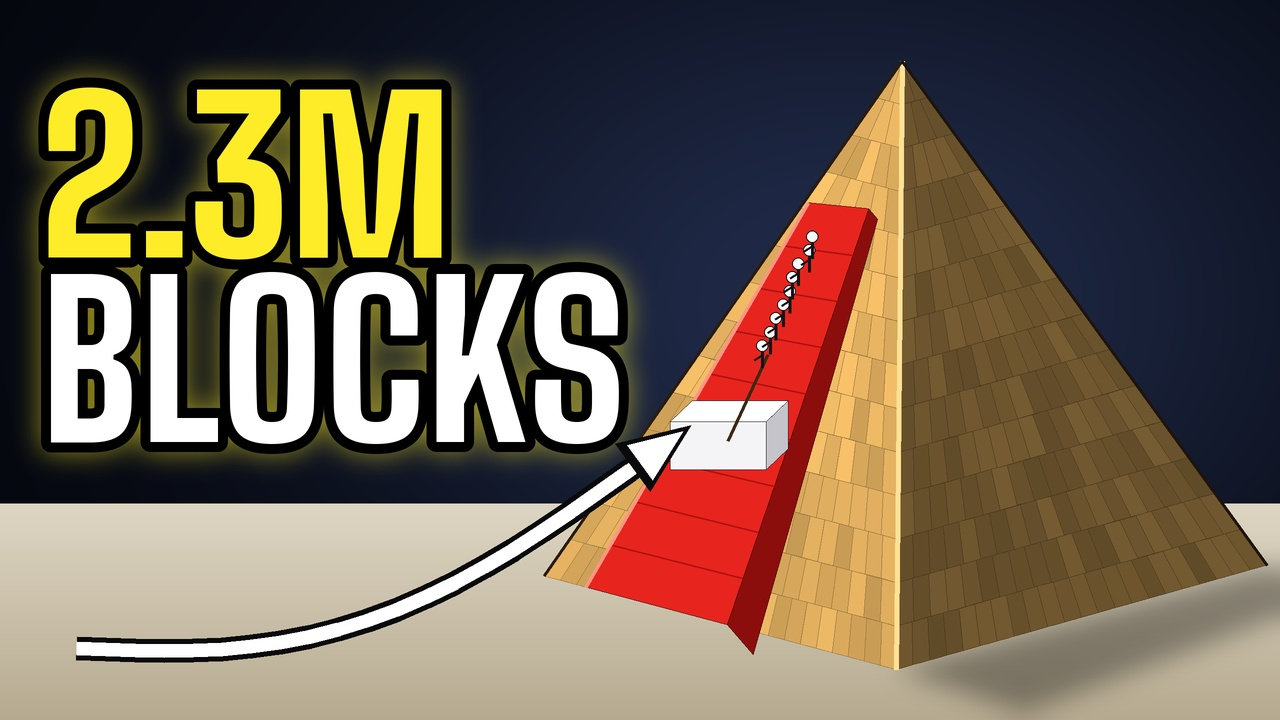
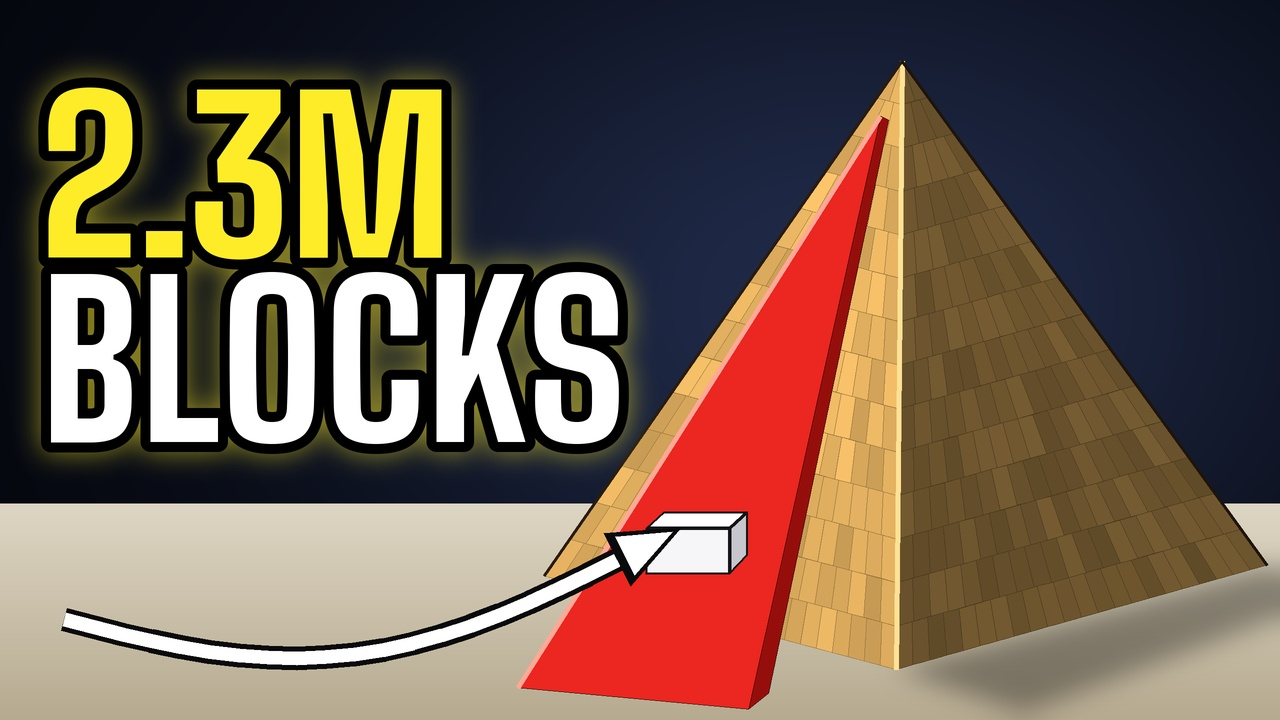
Thumbnail: one long straight red ramp from ground to top, block on it, no tiny people

Changed region(s): [[0.0312, 0.1528, 0.7188, 1.0]]

diff --git a/studio/hero_thumb.py b/studio/hero_thumb.py
@@ -76,45 +76,27 @@ def pyramid_thumbnail(lines, out_path, accent=(255, 236, 40), seed=3, ramp=True,
     d.line([apex, bf], fill=(255, 226, 150, 255), width=5 * S)         # bright edge
     d.line([apex, bl], fill=(40, 28, 16, 255), width=3 * S)
     d.line([apex, br], fill=(30, 20, 12, 255), width=3 * S)
-    # red ramp: a solid sloped embankment built against the lit face. Wide on the ground, narrowing as it climbs, with a darker side wall so it reads as a thick structure
+    # one long straight red ramp from the ground in front all the way up to near the top, like a slide leaning on the pyramid
+    bx = by = bw = 0
     if ramp:
-        g0 = _lerp(bl, bf, 0.12); g1 = _lerp(bl, bf, 0.52)                  # ramp foot on the ground along the base edge
-        top_c = _lerp(_lerp(g0, g1, 0.5), apex, 0.74)
-        t0 = (top_c[0] - 30 * S, top_c[1]); t1 = (top_c[0] + 30 * S, top_c[1] + 6 * S)
+        top = _lerp(apex, _lerp(bl, bf, 0.40), 0.10)                         # the ramp ends just under the tip
+        foot_l = (W * 0.405, H * 0.955)
+        foot_r = (W * 0.585, H * 0.985)
         rp = Image.new("RGBA", (W, H), (0, 0, 0, 0))
         rd = ImageDraw.Draw(rp)
-        drop = (26 * S, 30 * S)                                              # thickness: the side wall hangs down-right of the top surface
-        wall = [g1, (g1[0] + drop[0], g1[1] + drop[1]), (t1[0] + drop[0] * .35, t1[1] + drop[1] * .35), t1]
-        rd.polygon(wall, fill=(140, 14, 12, 255), outline=(40, 4, 4, 255))
-        rd.polygon([g0, g1, t1, t0], fill=(232, 36, 30, 255), outline=(60, 6, 6, 255))
-        for k in range(1, 9):                                                # cross-timber lines across the surface so it looks like a built ramp
-            q = k / 9
-            a_ = _lerp(g0, t0, q); b_ = _lerp(g1, t1, q)
-            rd.line([a_, b_], fill=(176, 18, 16, 255), width=2 * S)
-        rd.line([g0, t0], fill=(255, 150, 130, 255), width=3 * S)
+        side = [foot_r, (foot_r[0] + 20 * S, foot_r[1] - 16 * S), (top[0] + 8 * S, top[1] + 4 * S), top]
+        rd.polygon(side, fill=(150, 14, 12, 255), outline=(30, 4, 4, 255))
+        rd.polygon([foot_l, foot_r, top], fill=(236, 38, 32, 255), outline=(30, 4, 4, 255))
+        rd.line([foot_l, top], fill=(255, 168, 150, 255), width=5 * S)
         img.alpha_composite(rp)
         d = ImageDraw.Draw(img)
-        # the block, sitting on the ramp surface, with ropes to a line of tiny workers up the slope
-        q = 0.34
-        cl = _lerp(_lerp(g0, t0, q), _lerp(g1, t1, q), 0.5)
-        bx, by = cl
-        bw = 96 * S
-        d.polygon([(bx - bw / 2, by), (bx + bw / 2, by), (bx + bw / 2, by - bw * .5), (bx - bw / 2, by - bw * .5)], fill=(244, 244, 246), outline=(20, 20, 24))
-        d.polygon([(bx - bw / 2, by - bw * .5), (bx + bw / 2, by - bw * .5), (bx + bw / 2 + 22 * S, by - bw * .72), (bx - bw / 2 + 22 * S, by - bw * .72)], fill=(255, 255, 255), outline=(20, 20, 24))
-        d.polygon([(bx + bw / 2, by), (bx + bw / 2 + 22 * S, by - bw * .22), (bx + bw / 2 + 22 * S, by - bw * .72), (bx + bw / 2, by - bw * .5)], fill=(196, 196, 202), outline=(20, 20, 24))
-        top_pt = _lerp(_lerp(g0, t0, 0.80), _lerp(g1, t1, 0.80), 0.5)
-        ux, uy = top_pt[0] - bx, top_pt[1] - by
-        ln = math.hypot(ux, uy); ux, uy = ux / ln, uy / ln
-        rnd = random.Random(seed)
-        d.line([(bx + bw * .1, by - bw * .3), (bx + ux * 120 * S, by + uy * 120 * S - 6 * S)], fill=(60, 40, 20), width=3 * S)
-        if workers:
-            for i in range(9):
-                px = bx + ux * (110 * S + i * 15 * S) + rnd.uniform(-3, 3) * S
-                py = by + uy * (110 * S + i * 15 * S) - 8 * S
-                d.ellipse([px - 6 * S, py - 22 * S, px + 6 * S, py - 10 * S], fill=(250, 250, 250), outline=(20, 20, 24), width=S)
-                d.line([px, py - 10 * S, px, py + 6 * S], fill=(20, 20, 24), width=3 * S)
-                d.line([px, py - 6 * S, px - 8 * S, py - 1 * S], fill=(20, 20, 24), width=2 * S)
-        ramp_pt = (bx, by)
+        # a big clean stone block sitting low on the ramp so the slope is obvious
+        q = 0.22
+        cx_, cy_ = _lerp(_lerp(foot_l, top, q), _lerp(foot_r, top, q), 0.5)
+        bx, by, bw = cx_, cy_, 84 * S
+        d.polygon([(bx - bw / 2, by + 4 * S), (bx + bw / 2, by + 4 * S), (bx + bw / 2, by - bw * .5), (bx - bw / 2, by - bw * .5)], fill=(246, 246, 248), outline=(20, 20, 24), width=2 * S)
+        d.polygon([(bx - bw / 2, by - bw * .5), (bx + bw / 2, by - bw * .5), (bx + bw / 2 + 18 * S, by - bw * .7), (bx - bw / 2 + 18 * S, by - bw * .7)], fill=(255, 255, 255), outline=(20, 20, 24), width=2 * S)
+        d.polygon([(bx + bw / 2, by + 4 * S), (bx + bw / 2 + 18 * S, by - bw * .18), (bx + bw / 2 + 18 * S, by - bw * .7), (bx + bw / 2, by - bw * .5)], fill=(198, 198, 204), outline=(20, 20, 24), width=2 * S)
     # text: huge glowing number with an outline
     lines = lines.split("|")
     size = 430
@@ -140,12 +122,12 @@ def pyramid_thumbnail(lines, out_path, accent=(255, 236, 40), seed=3, ramp=True,
     # arrow: a big white curved arrow pointing at the ramp
     if arrow:
         tipx, tipy = _lerp(_lerp(bl, bf, 0.38), apex, 0.32)
-        sx, sy = W * 0.06, H * 0.90
+        sx, sy = W * 0.05, H * 0.86
         pts = []
         for i in range(0, 21):
             t = i / 20
-            x = sx + (bx - bw * .62 - sx) * t
-            y = sy + (by - bw * .22 - sy) * t + math.sin(t * math.pi) * (H * 0.10)
+            x = sx + (bx - bw * .5 - sx) * t
+            y = sy + (by - bw * .3 - sy) * t + math.sin(t * math.pi) * (H * 0.10)
             pts.append((x, y))
         d.line(pts, fill=(10, 10, 12), width=24 * S, joint="curve")
         d.line(pts, fill=(255, 255, 255), width=14 * S, joint="curve")
